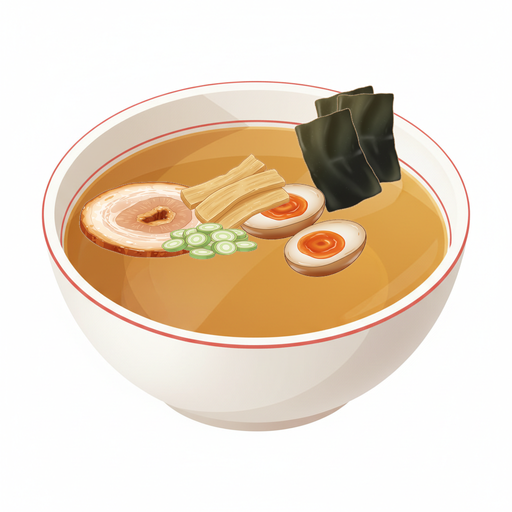
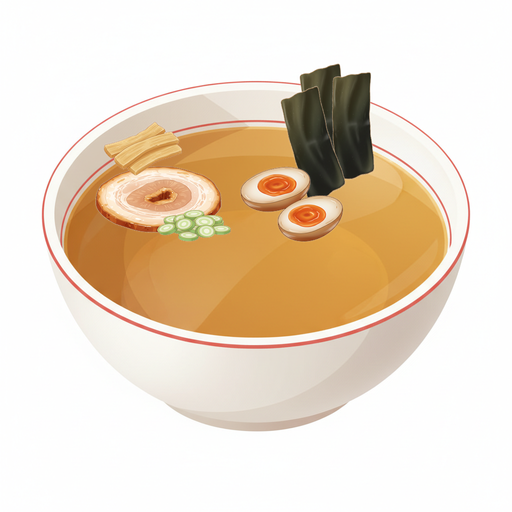
Realistic topping proportions, regenerated shiraga negi, 4 layout iterations

Changed region(s): [[0.1562, 0.125, 0.7812, 0.5625]]

diff --git a/asset_tools/generate-bowl-assets/composite.ts b/asset_tools/generate-bowl-assets/composite.ts
@@ -28,27 +28,41 @@ const SOUP_MAP: Record<string, string> = {
 };
 
 // トッピング配置座標（丼幅に対する比率）
+// リアルなラーメンの盛り付けを参考:
+//   丼のスープ面は約 x:0.15~0.85, y:0.20~0.55 の楕円エリア
+//   奥(y小)→手前(y大)、左(x小)→右(x大)
 // 海苔は3枚重ねで配置するため、配列で定義
 type ToppingPlacement = {
   x: number; y: number; w: number; h: number;
   rotate?: number; layer?: "back" | "front";
 };
 const TOPPING_LAYOUT: Record<string, ToppingPlacement[]> = {
-  chashu:       [{ x: 0.10, y: 0.28, w: 0.40, h: 0.30 }],
-  ajitama:      [{ x: 0.40, y: 0.30, w: 0.38, h: 0.30 }],
+  // チャーシュー: 左寄り中央、存在感のあるメインの具
+  chashu:       [{ x: 0.14, y: 0.26, w: 0.34, h: 0.26 }],
+  // 味玉: チャーシューの右隣、卵2つでしっかり見える
+  ajitama:      [{ x: 0.42, y: 0.28, w: 0.30, h: 0.24 }],
+  // 海苔: 奥の右側に3枚立てかけ、リムに沿って存在感
   nori:         [
-    { x: 0.52, y: 0.10, w: 0.32, h: 0.30, rotate: 8, layer: "back" },
-    { x: 0.56, y: 0.12, w: 0.30, h: 0.28, rotate: -5, layer: "back" },
-    { x: 0.48, y: 0.14, w: 0.31, h: 0.29, rotate: 12, layer: "back" },
+    { x: 0.52, y: 0.06, w: 0.22, h: 0.34, rotate: 5, layer: "back" },
+    { x: 0.58, y: 0.08, w: 0.20, h: 0.32, rotate: -4, layer: "back" },
+    { x: 0.48, y: 0.10, w: 0.21, h: 0.33, rotate: 10, layer: "back" },
   ],
-  menma:        [{ x: 0.32, y: 0.24, w: 0.28, h: 0.28 }],
-  negi:         [{ x: 0.28, y: 0.40, w: 0.26, h: 0.14 }],
-  shiraga_negi: [{ x: 0.26, y: 0.34, w: 0.30, h: 0.20 }],
-  moyashi:      [{ x: 0.16, y: 0.30, w: 0.32, h: 0.22 }],
-  butter:       [{ x: 0.40, y: 0.36, w: 0.20, h: 0.14 }],
-  corn:         [{ x: 0.34, y: 0.40, w: 0.22, h: 0.14 }],
-  yuzu:         [{ x: 0.42, y: 0.38, w: 0.16, h: 0.12 }],
-  kikurage:     [{ x: 0.44, y: 0.30, w: 0.26, h: 0.20 }],
+  // メンマ: チャーシューの奥に添える
+  menma:        [{ x: 0.18, y: 0.20, w: 0.20, h: 0.18 }],
+  // ネギ: 中央手前に散らす、実際のラーメンではパラパラだが見えるサイズに
+  negi:         [{ x: 0.28, y: 0.38, w: 0.20, h: 0.12 }],
+  // 白髪ネギ: 中央にふわっと山盛り、トッピングの上に載る感じ
+  shiraga_negi: [{ x: 0.24, y: 0.26, w: 0.32, h: 0.24 }],
+  // もやし: 右寄り中央にどっさり、味噌ラーメンの主役級
+  moyashi:      [{ x: 0.32, y: 0.20, w: 0.42, h: 0.30 }],
+  // バター: もやしの上にドンと載る、溶けかけで存在感
+  butter:       [{ x: 0.44, y: 0.30, w: 0.18, h: 0.14 }],
+  // コーン: もやしの手前に小山で盛る、黄色で目を引く
+  corn:         [{ x: 0.30, y: 0.36, w: 0.24, h: 0.16 }],
+  // 柚子皮: 小さなアクセント、スープの色とコントラスト出る位置
+  yuzu:         [{ x: 0.40, y: 0.36, w: 0.12, h: 0.10 }],
+  // きくらげ: チャーシュー右上あたり、中程度
+  kikurage:     [{ x: 0.42, y: 0.24, w: 0.22, h: 0.18 }],
 };
 
 interface CompositeRequest {
@@ -133,10 +147,10 @@ function composePresets() {
     { broth: "tori_paitan", tare: "shio", toppings: ["nori", "chashu", "ajitama", "negi", "yuzu"], outputName: "bowl_tori_paitan_shio" },
     { broth: "tonkotsu", tare: "tonkotsu_tare", toppings: ["chashu", "negi", "nori"], outputName: "bowl_tonkotsu_classic" },
     { broth: "gyokai", tare: "shoyu", toppings: ["nori", "chashu", "ajitama", "menma", "negi"], outputName: "bowl_gyokai_shoyu" },
-    { broth: "yasai", tare: "miso", toppings: ["chashu", "corn", "butter", "moyashi", "negi"], outputName: "bowl_yasai_miso" },
+    { broth: "yasai", tare: "miso", toppings: ["moyashi", "chashu", "corn", "butter", "negi"], outputName: "bowl_yasai_miso" },
     { broth: "tori_gyokai", tare: "shoyu", toppings: ["chashu", "ajitama", "nori", "menma", "negi"], outputName: "bowl_tori_gyokai_shoyu" },
     { broth: "gyokai", tare: "shio", toppings: ["chashu", "yuzu", "shiraga_negi"], outputName: "bowl_gyokai_shio" },
-    { broth: "tonkotsu", tare: "miso", toppings: ["chashu", "corn", "butter", "negi", "kikurage"], outputName: "bowl_tonkotsu_miso" },
+    { broth: "tonkotsu", tare: "miso", toppings: ["chashu", "kikurage", "corn", "butter", "negi"], outputName: "bowl_tonkotsu_miso" },
   ];
 
   for (const preset of presets) {
